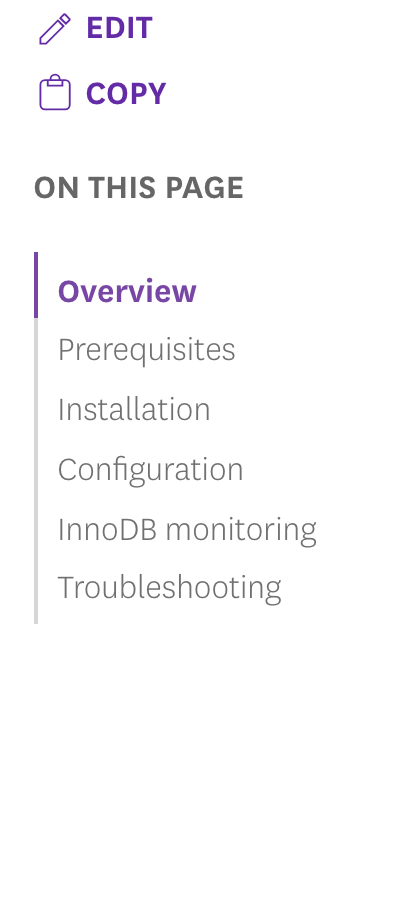
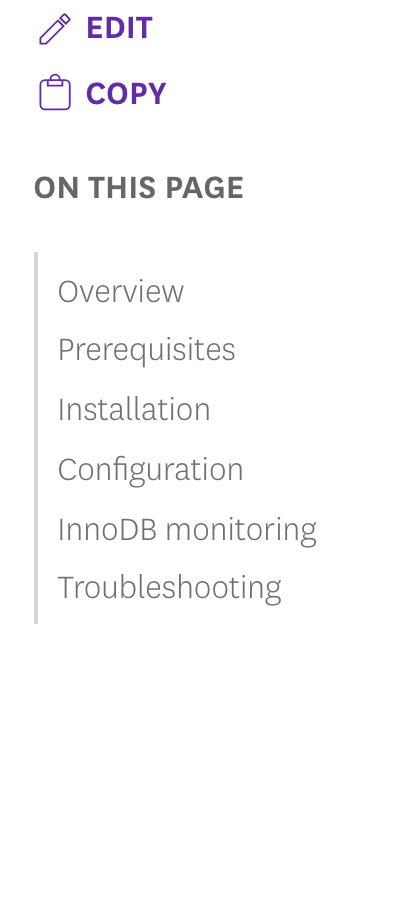
Fix Cdocs tests

Changed region(s): [[0.15, 0.303, 0.51, 0.3333], [0.06, 0.2727, 0.12, 0.3333]]

diff --git a/assets/styles/pages/_global.scss b/assets/styles/pages/_global.scss
@@ -419,7 +419,6 @@ h5 {
         h3,
         h4,
         h5 {
-            pointer-events: none;
             &:before {
                 margin-top: -110px;
                 height: 110px;
@@ -452,6 +451,7 @@ h5 {
     h3,
     h4,
     h5 {
+        pointer-events: none;
         &:before {
             display: block;
             content: '';